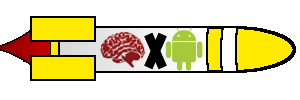
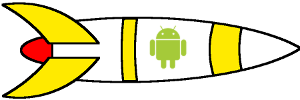
Layout has been changed.

diff --git a/cellwidget.py b/cellwidget.py
@@ -20,12 +20,12 @@ class CellWidget(Button):
     def onCellStateChanged(self, state):
         images = {
             "empty": "images/empty_cell.png",
-            "unit": "images/cell.png",
+            "unit": "images/ship.png",
             "default": "images/cell.png",
             "checked": "images/checked_cell.png",
             "X": "images/bad_cell.png",
         }
-        self.text = state
+        #self.text = state
         self.background_normal = images[state]
 
 

diff --git a/fieldwidget.py b/fieldwidget.py
@@ -31,7 +31,7 @@ class FieldWidget(Widget):
         for field, player in zip(self.fields, game.fields):
             field.clear_widgets()
             for cell in player.cells:
-                field.add_widget(CellWidget(game, cell, text=cell.state))
+                field.add_widget(CellWidget(game, cell))
 
         self.text = "Arrange your units"
         Clock.schedule_once(self.CB(self), 1)
